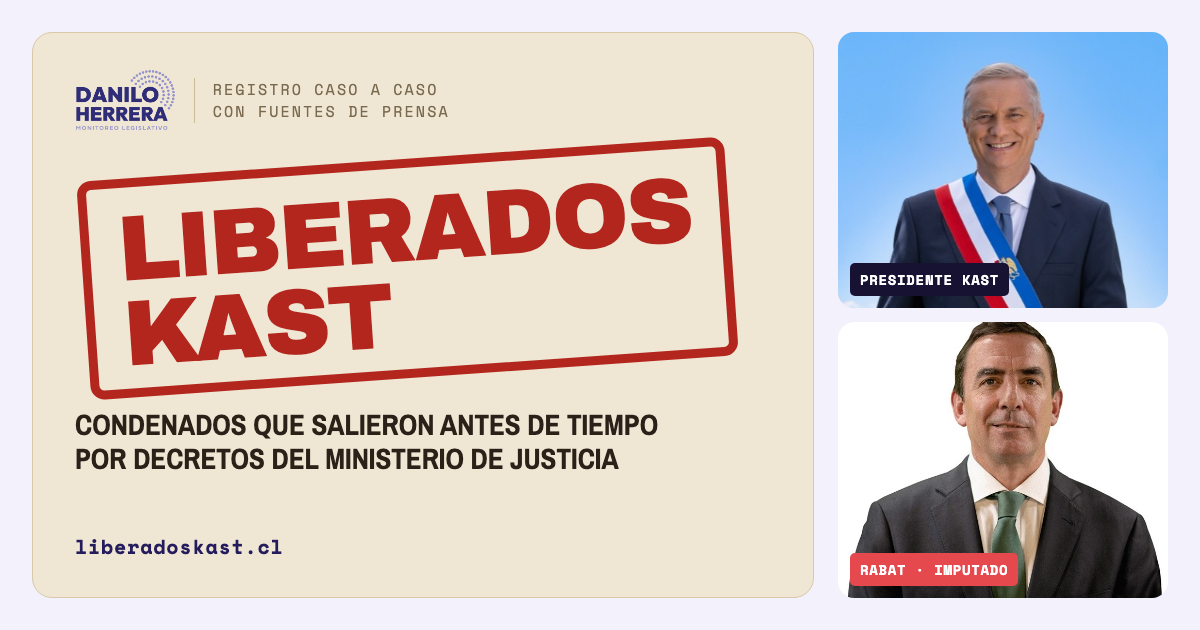
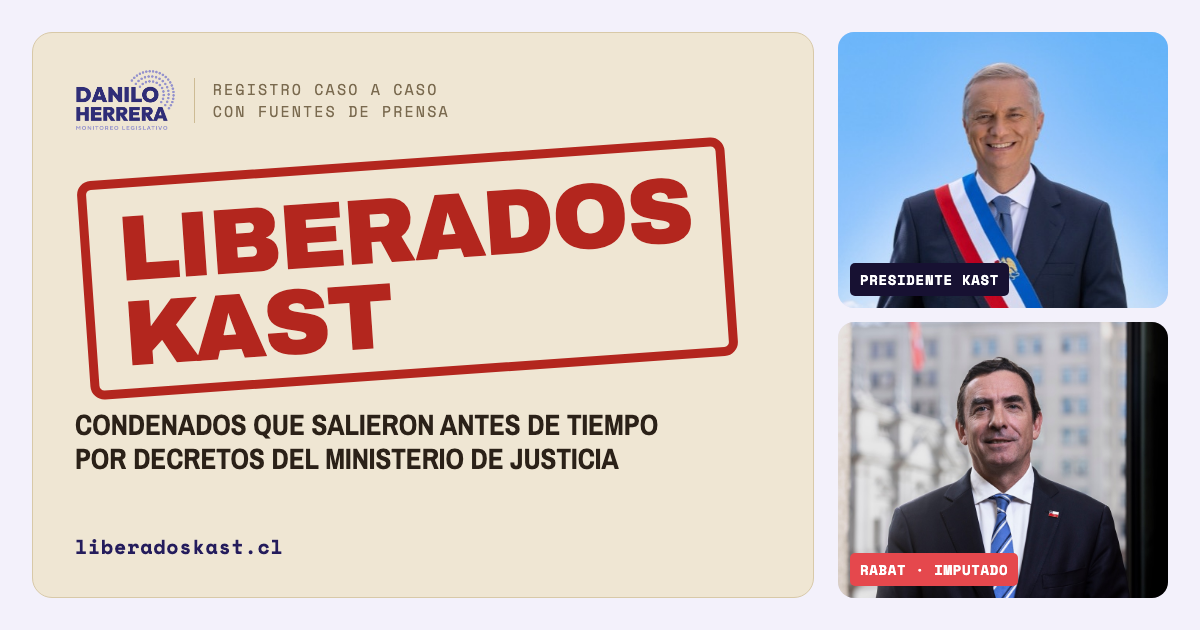
Nueva foto de Rabat, secciones plegadas, verificación con BioBío e Interferencia y 7 casos nuevos

Changed region(s): [[0.6783, 0.5127, 0.9867, 0.9651]]

diff --git a/index.html b/index.html
@@ -13,13 +13,13 @@
 <meta property="og:url" content="https://liberadoskast.cl/">
 <meta property="og:title" content="Liberados Kast · Rebajas de condena del Ministerio de Justicia">
 <meta property="og:description" content="Los condenados que salieron antes de tiempo por decretos firmados por Rabat, Silva y Mira. Caso a caso, con fuente de prensa.">
-<meta property="og:image" content="https://liberadoskast.cl/og-image.png?v=2">
+<meta property="og:image" content="https://liberadoskast.cl/og-image.png?v=3">
 <meta property="og:image:width" content="1200">
 <meta property="og:image:height" content="630">
 <meta name="twitter:card" content="summary_large_image">
 <meta name="twitter:title" content="Liberados Kast · Rebajas de condena del Ministerio de Justicia">
 <meta name="twitter:description" content="Los condenados que salieron antes de tiempo por decretos firmados por Rabat, Silva y Mira. Caso a caso, con fuente de prensa.">
-<meta name="twitter:image" content="https://liberadoskast.cl/og-image.png?v=2">
+<meta name="twitter:image" content="https://liberadoskast.cl/og-image.png?v=3">
 <link rel="preconnect" href="https://fonts.googleapis.com">
 <link rel="preconnect" href="https://fonts.gstatic.com" crossorigin>
 <link href="https://fonts.googleapis.com/css2?family=Archivo:wght@400;500;600;700;800;900&family=Archivo+Narrow:wght@600;700&family=Space+Mono:wght@400;700&display=swap" rel="stylesheet">
@@ -136,6 +136,7 @@
   .st-libre{background:var(--alert-bg);color:var(--alert-ink)}
   .st-prision{background:#dfeee3;color:#22613a}
   .st-sinconf{background:#ecebf3;color:#5d587c}
+  .st-volvio{background:#f3e6d6;color:#7a4a12}
   .case.ghost{border-style:dashed;border-left-style:solid;background:transparent;justify-content:flex-start}
   .case.ghost .who{font-size:30px;font-weight:900;color:var(--indigo)}
   .blk{margin-top:30px}
@@ -259,7 +260,7 @@
         </div>
       </article>
       <article class="person">
-        <div class="ph"><img src="img/rabat.jpg" alt="Retrato oficial del ministro de Justicia Fernando Rabat" loading="lazy" style="object-position:50% 25%"><span class="stamp">Imputado</span></div>
+        <div class="ph"><img src="img/rabat.jpg" alt="Retrato oficial del ministro de Justicia Fernando Rabat" loading="lazy" style="object-position:50% 22%"><span class="stamp">Imputado</span></div>
         <div class="bd">
           <div class="role">Ministro de Justicia y DD.HH.</div>
           <h3>Fernando Rabat</h3>
@@ -279,7 +280,7 @@
         </div>
       </article>
     </div>
-    <p class="credit">Fotos: Gobierno de Chile, licencia CC BY 3.0, vía Wikimedia Commons (<a href="https://commons.wikimedia.org/wiki/File:Retrato_presidencial_de_Jos%C3%A9_Antonio_Kast_Rist_(2026).jpg" target="_blank" rel="noopener">Kast</a>, <a href="https://commons.wikimedia.org/wiki/File:Fernando_Rabat_Celis_Justicia_2026.jpg" target="_blank" rel="noopener">Rabat</a>, <a href="https://commons.wikimedia.org/wiki/File:Pablo_Mira,_Fernando_Rabat_y_Luis_Silva.jpg" target="_blank" rel="noopener">Mira, Rabat y Silva</a>).</p>
+    <p class="credit">Fotos: Gobierno de Chile, licencia CC BY 3.0, vía Wikimedia Commons (<a href="https://commons.wikimedia.org/wiki/File:Retrato_presidencial_de_Jos%C3%A9_Antonio_Kast_Rist_(2026).jpg" target="_blank" rel="noopener">Kast</a>; <a href="https://commons.wikimedia.org/wiki/File:Pablo_Mira,_Fernando_Rabat_y_Luis_Silva.jpg" target="_blank" rel="noopener">Mira, Rabat y Silva</a>). Retrato de Rabat: <a href="https://www.minjusticia.gob.cl/media/2026/11/Fernando_Rabat_2026-web.png" target="_blank" rel="noopener">Ministerio de Justicia</a>.</p>
   </div>
 </section>
 
@@ -321,11 +322,11 @@
       <h2>Cómo se arma este registro</h2>
     </div>
     <div class="methodbox">
-      <div><h4>Fuentes</h4><p>Cada caso, hecho y cifra enlaza a la nota de prensa de la que sale. Citamos a BioBioChile, CIPER, CNN Chile, Ex-Ante, Interferencia, La Tercera, Reportajes T13 y The Clinic. Las fotos son del Gobierno de Chile, vía Wikimedia Commons. El Gobierno no ha publicado los decretos completos.</p></div>
+      <div><h4>Fuentes</h4><p>Cada caso, hecho y cifra enlaza a la nota de prensa de la que sale. Citamos a BioBioChile, CIPER, CNN Chile, Ex-Ante, Interferencia, La Tercera, Reportajes T13 y The Clinic. Las fotos son del Gobierno de Chile (Wikimedia Commons y Ministerio de Justicia). El Gobierno no ha publicado los decretos completos.</p></div>
       <div><h4>Víctimas primero</h4><p>En delitos sexuales contra menores no publicamos nombres de condenados, comunas ni parentesco con la víctima. Las iniciales se toman de la prensa que identificó cada caso.</p></div>
       <div><h4>Liberado no es lo mismo que rebajado</h4><p>Cada ficha marca «En libertad» solo si una fuente lo confirma. «Sigue preso» y «Sin confirmar» quedan fuera del contador principal.</p></div>
       <div><h4>Orden judicial o decisión propia</h4><p>Marcamos «por orden de la Corte Suprema» solo cuando la prensa informa un fallo que obligó a conceder la rebaja. Que un caso haya pasado por tribunales no basta: muchos fallos solo ordenaban revisar la solicitud. En los otros delitos no hay información sobre el origen.</p></div>
-      <div><h4>Lo que falta</h4><p>De las 56 rebajas por delitos sexuales contra menores, la prensa ha identificado 43. Las 13 restantes aparecerán a medida que se conozcan.</p></div>
+      <div><h4>Lo que falta</h4><p>De las 56 rebajas por delitos sexuales contra menores, la prensa ha identificado <span id="nIdent">44</span>. Las <span id="nFalta">12</span> restantes aparecerán a medida que se conozcan.</p></div>
     </div>
   </div>
 </section>
@@ -347,7 +348,10 @@ const F = {
   bb43:{m:"BioBioChile", u:"https://www.biobiochile.cl/especial/bbcl-investiga/noticias/reportajes/2026/11/03/suben-los-pederastas-identificados10-de-43-fueron-beneficiados-por-orden-de-la-corte-suprema.shtml"},
   bbOtros:{m:"BioBioChile", u:"https://www.biobiochile.cl/especial/bbcl-investiga/noticias/articulos/2026/10/28/narco-de-la-mafia-italiana-y-neonazi-homicida-estos-son-los-otros-favorecidos-por-rabat-y-silva.shtml"},
   bbTDA:{m:"BioBioChile", u:"https://www.biobiochile.cl/noticias/nacional/chile/2026/10/27/nuevo-flanco-para-rabat-decretos-dejaron-libres-a-extorsionadores-que-decian-ser-del-tren-de-aragua.shtml"},
-  cnnPP:{m:"CNN Chile", u:"https://www.cnnchile.com/pais/rebajas-condenas-punta-peuco-ministro-justicia-fernando-rabat-secuestro-tormentos/"},
+  bbPP:{m:"BioBioChile", u:"https://www.biobiochile.cl/noticias/nacional/chile/2026/10/26/los-otros-dos-nombres-las-rebajas-condena-que-firmo-rabat-a-condenados-por-secuestro-y-torturas-en-dictadura.shtml"},
+  iPA:{m:"Interferencia", u:"https://interferencia.cl/articulos/el-condenado-de-punta-arenas-que-salio-libre-con-una-rebaja-de-pena-y-llevo-la-polemica-de"},
+  bbCNI:{m:"BioBioChile", u:"https://www.biobiochile.cl/noticias/nacional/chile/2026/10/22/cesar-acuna-luengo-el-decreto-de-justicia-que-rebajo-pena-a-exagente-cni-condenado-por-ultimos-secuestros-de-la-dictadura.shtml"},
+  iReinc:{m:"Interferencia", u:"https://interferencia.cl/articulos/condenado-expulsion-por-trafico-que-recibio-rebaja-de-condena-de-rabat-fue-detenido-otra"},
   uchDrogas:{m:"Interferencia", u:"https://interferencia.cl/articulos/hasta-con-una-tonelada-de-droga-los-decretos-de-rabat-que-rebajaron-condenas-narcos"}
 };
 
@@ -363,7 +367,7 @@ const D = [
   // BioBioChile, 26 oct 2026 (33 casos)
   S("P.G.H.","Abuso sexual de menor de 14 años",11,"Silva","bb33"),
   S("J.S.O.","Abuso sexual impropio reiterado",9,"Silva","bb33"),
-  S("H.O.A.","Violación de menor de 14 años",18,"Silva","bb33"),
+  S("H.O.A.","Violación de menor de 14 años",18,"Silva","bb33",{sub:true,fd:"24 jun"}),
   S("P.A.V.","Abuso sexual de menor de 14 años",15,"Rabat","bb33"),
   S("P.R.O.","Abuso sexual de menor de 14 años",10,"Rabat","bb33"),
   S("E.N.N.","Abuso sexual reiterado de menor de 14 años",17,"Rabat","bb33"),
@@ -383,7 +387,7 @@ const D = [
   S("J.S.A.","Abuso sexual de menor de 14 años",3,"Silva","bb33"),
   S("J.C.P.","Abuso sexual reiterado de menor de 15 años",10,"Silva","bb33"),
   S("L.V.J.","Violación reiterada",6,"Silva","bb33"),
-  S("W.G.M.","Abuso sexual",21,"Rabat","bb33",{g:"Riesgo de reincidencia medio en delitos sexuales y alto en delitos comunes."}),
+  S("W.G.M.","Abuso sexual",21,"Rabat","bb33",{fd:"31 jul",g:"Riesgo de reincidencia medio en delitos sexuales y alto en delitos comunes."}),
   S("D.A.C.","Abuso sexual impropio y violación de menor de 14 años",31,"Rabat","bb33",{g:"Ya había recibido una rebaja anterior de 25 meses."}),
   S("B.C.S.","Abuso sexual de menor de 14 años",10,"Rabat","bb33"),
   S("G.L.S.","Violación y abuso sexual de menor",36,"Rabat","bb33",{g:"La mayor rebaja identificada."}),
@@ -405,6 +409,8 @@ const D = [
   S("S.B.R.","Violación de menor de 14 años",11,"Rabat","bb43"),
   S("M.M.M.","Violación y producción de pornografía infantil",23,"Rabat","bb43"),
   S("J.M.L.","Violación de menor de 14 años",null,"","bb43"),
+  // Interferencia, 4 nov 2026 (identificado por La Prensa Austral)
+  S("J.S.O.","Violación y abuso sexual reiterado de una niña",18,"Silva","iPA",{sub:true,fd:"8 sep",g:"Salió al día siguiente. Gendarmería lo había evaluado con riesgo alto de reincidencia y le negaron la libertad condicional cuatro años seguidos."}),
 
   // Otros delitos (nombres ya publicados por la prensa)
   {tipo:"drogas",q:"Massimiliano Beltrami",delito:"Narcotráfico: más de 100 kilos de cocaína ocultos en motos de agua (Operación Tirreno, 2018)",m:9.5,mt:"9 meses y 16 días",firma:"Rabat",fd:"15 may",est:"sinconf",g:"Vinculado a la mafia italiana. Debía ser extraditado a Italia.",f:"bbOtros"},
@@ -416,20 +422,27 @@ const D = [
   {tipo:"robo",q:"Franyorkin Aramburu Hernández",delito:"Robo con intimidación y porte de armas; extorsionaba a migrantes diciendo ser del Tren de Aragua",m:9,firma:"Rabat",fd:"6 jul",est:"prision",g:"La Comisión de Libertad Condicional le había negado la salida en 2025. Su salida quedó para el 8 de marzo de 2027.",f:"bbTDA"},
   {tipo:"robo",q:"Winder Marott Morán",delito:"Robo con intimidación y porte de armas; extorsionaba a migrantes diciendo ser del Tren de Aragua",m:3,firma:"Rabat",fd:"4 sep",est:"libre",g:"Salió el 9 de septiembre. No fue expulsado.",f:"bbTDA"},
   {tipo:"robo",q:"Jhonder Ollarves Berbesi",sub:true,delito:"Robo con intimidación y porte de armas; extorsionaba a migrantes diciendo ser del Tren de Aragua",m:3,firma:"Silva",fd:"7 sep",est:"libre",g:"Salió el 10 de septiembre. No fue expulsado.",f:"bbTDA"},
-  {tipo:"ddhh",q:"Miguel Arias Navarrete",delito:"Excarabinero, secuestro calificado de Justo Flores Martínez (1973)",m:9,firma:"Rabat",est:"libre",g:"Cumplía en Punta Peuco. Su salida se adelantó del 14 de diciembre al 14 de marzo.",f:"cnnPP"},
-  {tipo:"ddhh",q:"Manuel Cabezas Pérez",delito:"Exintegrante de la FACh, torturas reiteradas a dos detenidos en la Base Aérea El Bosque",m:8,firma:"Rabat",est:"libre",g:"Cumplía en Punta Peuco. Su salida se adelantó del 28 de noviembre al 28 de marzo.",f:"cnnPP"},
+  {tipo:"ddhh",q:"Miguel Arias Navarrete",delito:"Excarabinero, secuestro calificado de Justo Flores Martínez (1973)",m:9,firma:"Rabat",est:"libre",g:"Cumplía en Punta Peuco. Su salida se adelantó del 14 de diciembre al 14 de marzo.",f:"bbPP"},
+  {tipo:"ddhh",q:"Manuel Cabezas Pérez",delito:"Exintegrante de la FACh, torturas reiteradas a dos detenidos en la Base Aérea El Bosque",m:8,firma:"Rabat",est:"libre",g:"Cumplía en Punta Peuco. Su salida se adelantó del 28 de noviembre al 28 de marzo.",f:"bbPP"},
   {tipo:"drogas",q:"Jhoel Ramos Antesana",delito:"Narcotráfico: transporte de 867 kilos de marihuana, entre otras drogas (2021)",m:3,firma:"",fd:"12 may",est:"sinconf",g:"El decreto fijó su salida para dos días después.",f:"uchDrogas"},
   {tipo:"drogas",q:"Fredy Orlas Heredia",sub:true,delito:"Narcotráfico: 52 kilos de pasta base (2021)",m:6,firma:"Silva",fd:"1 jun",est:"sinconf",g:"Gendarmería evaluó alto su riesgo de reincidencia y la Comisión de Libertad Condicional le negó la salida por unanimidad.",f:"uchDrogas"},
-  {tipo:"drogas",q:"Wilber Tenajas Orellana",sub:true,delito:"Narcotráfico: 291,5 kilos de marihuana, junto a otros detenidos",m:7,firma:"Silva",est:"sinconf",f:"uchDrogas"},
+  {tipo:"drogas",q:"Wilber Tenajas Orellana",sub:true,delito:"Narcotráfico: 291,5 kilos de marihuana, junto a otros detenidos",m:7,firma:"Silva",fd:"7 sep",est:"sinconf",g:"El decreto adelantó el término de su condena del 8 de abril de 2027 al 8 de septiembre de 2026.",f:"uchDrogas"},
   {tipo:"drogas",q:"Estela Cocha Tito",sub:true,delito:"Narcotráfico: 25 kilos de marihuana, junto a otra detenida",m:11,firma:"Silva",fd:"13 jul",est:"sinconf",f:"uchDrogas"},
-  {tipo:"drogas",q:"José Luis Liscano Bermúdez",delito:"Narcotráfico: 32,7 kilos de ketamina (2021)",m:null,firma:"Rabat",est:"libre",f:"uchDrogas"},
+  {tipo:"drogas",q:"José Luis Liscano Bermúdez",delito:"Narcotráfico: 32,7 kilos de ketamina (2021)",m:null,firma:"Rabat",fd:"10 abr",est:"libre",f:"uchDrogas"},
   {tipo:"drogas",q:"Víctor Mora Araya",delito:"Narcotráfico: 32,7 kilos de ketamina (2021)",m:null,firma:"Rabat",est:"libre",f:"uchDrogas"},
   {tipo:"drogas",q:"Cristhian Oblitas Uscamayta",delito:"Narcotráfico: 103,4 kilos de marihuana",m:null,firma:"",est:"sinconf",f:"uchDrogas"},
-  {tipo:"drogas",q:"Javier Pérez Mamani",delito:"Narcotráfico: 59,9 kilos de marihuana y uno de cocaína",m:null,firma:"",est:"sinconf",f:"uchDrogas"}
+  {tipo:"drogas",q:"Javier Pérez Mamani",delito:"Narcotráfico: 59,9 kilos de marihuana y uno de cocaína",m:null,firma:"",est:"sinconf",f:"uchDrogas"},
+  {tipo:"drogas",q:"Estefanía Cante Gonzales",delito:"Narcotráfico: 25 kilos de marihuana, junto a otra detenida",m:null,firma:"",est:"sinconf",f:"uchDrogas"},
+  {tipo:"drogas",q:"Daniela Velásquez Jiménez",delito:"Narcotráfico: detenida en 2022 en un patrullaje de Carabineros y el Ejército en la frontera norte",m:11,firma:"",est:"sinconf",f:"uchDrogas"},
+  {tipo:"drogas",q:"Vladimir Medina Mamani",delito:"Narcotráfico: 5,1 kilos de cocaína en una mochila",m:null,firma:"",est:"sinconf",g:"Se le había negado la libertad condicional en abril de 2025.",f:"uchDrogas"},
+  {tipo:"drogas",q:"David Cano Arias",delito:"Narcotráfico: 4,3 kilos de cocaína en el complejo fronterizo de Colchane",m:null,firma:"",est:"sinconf",f:"uchDrogas"},
+  {tipo:"drogas",q:"Edixon Escobar García",delito:"Narcotráfico: 25,5 kilos de cannabis y dos de cocaína, al entrar por un paso no habilitado (2020)",m:6,firma:"Rabat",fd:"23 abr",est:"volvio",g:"Se le había negado la libertad condicional. El decreto fijó su salida para el día siguiente. El 30 de octubre quedó en prisión preventiva, otra vez por tráfico.",f:"iReinc"},
+  {tipo:"ddhh",q:"César Acuña Luengo",sub:true,delito:"Exagente de la CNI, secuestro calificado de cinco detenidos desaparecidos (1987)",m:19,firma:"Mira",fd:"20 may",est:"sinconf",g:"Cumplía en Colina I. El decreto movió el término de su condena del 2 de mayo de 2027 al 2 de octubre de 2025, una fecha ya pasada.",f:"bbCNI"}
 ];
 const SIN_IDENTIFICAR = 56 - D.filter(d=>d.tipo==="sexual").length;
 // Origen de la rebaja (solo delitos sexuales identificados). Fuente: BioBioChile, 3 nov 2026:
 // los 10 del 3 nov fueron por orden de la Corte Suprema; en los 33 del 26 oct el ministerio actuó «por decisión propia».
+// J.S.O. (Interferencia, 4 nov): la Seremi envió la solicitud y el ministerio la concedió; no hubo fallo que lo ordenara.
 D.forEach(d=>{ if(d.tipo==="sexual") d.ori = d.f==="bb43" ? "suprema" : "ministerio"; });
 const ORI = {ministerio:"Decisión del Ministerio, sin orden de conceder", suprema:"Por orden de la Corte Suprema"};
 
@@ -438,27 +451,29 @@ const ORI = {ministerio:"Decisión del Ministerio, sin orden de conceder", supre
 const T = [
   {d:"Febrero", h:"Traspaso: el criterio era rechazar", m:"En la reunión de traspaso, el exministro Jaime Gajardo le explica a Rabat que el ministerio rechazaba las rebajas a condenados por delitos sexuales contra niños, salvo orden de un tribunal.", s:[["Reportajes T13","https://www.t13.cl/noticia/reportajes-teletrece/exclusivo-las-tres-advertencias-recibio-rabat-sobre-costos-beneficiar-abusadore-29-10-2026"]]},
   {d:"11 mar", h:"Rabat asume como ministro de Justicia", m:"Asume con el Gobierno de José Antonio Kast.", s:[]},
-  {d:"Mar – may", h:"Al principio, el ministerio sí rechaza", m:"Justicia niega rebajas a condenados por abusos contra menores de 14 años y aplica la ley de 2022 que las prohíbe. Rabat recibe al menos tres advertencias de su equipo sobre el costo de cambiar ese criterio.", s:[["Interferencia","https://interferencia.cl/articulos/rabat-aprobo-rebajas-de-condena-que-sus-oficinas-regionales-habian-objetado-dos-de-ellas"],["Reportajes T13","https://www.t13.cl/noticia/reportajes-teletrece/exclusivo-las-tres-advertencias-recibio-rabat-sobre-costos-beneficiar-abusadore-29-10-2026"]]},
+  {d:"Mar – may", h:"Al principio, el ministerio sí rechaza", m:"Justicia niega al menos cinco rebajas a condenados por violar a menores antes de 2022, dos con la firma de Rabat. Rabat recibe al menos tres advertencias de su equipo sobre el costo de cambiar ese criterio.", s:[["Interferencia","https://interferencia.cl/articulos/los-decretos-que-desmienten-la-doctrina-rabat-nego-rebajas-de-condena-violadores-de-ninos"],["Reportajes T13","https://www.t13.cl/noticia/reportajes-teletrece/exclusivo-las-tres-advertencias-recibio-rabat-sobre-costos-beneficiar-abusadore-29-10-2026"]]},
   {d:"15 – 16 jun", k:true, h:"La Suprema le da la razón y el ministerio cambia de criterio", m:"El 15 de junio la Corte Suprema respalda un rechazo del ministerio. Al día siguiente, Justicia concede otra rebaja con el criterio contrario.", s:[["CNN Chile","https://www.cnnchile.com/pais/la-sentencia-que-tensiona-la-defensa-de-rabat-suprema-respaldo-a-justicia-al-negar-una-rebaja-de-condena-y-al-dia-siguiente-el-ministerio-concedio-otra-bajo-su-nuevo-criterio/"]]},
-  {d:"Jun – jul", h:"Firma pese a las alertas de la Seremi", m:"La Seremi de Justicia del Biobío advierte que la prohibición de 2022 podría aplicarse en dos casos. Rabat firma igual las rebajas de 6 y 30 meses (decretos 2075 y 2126).", s:[["Interferencia","https://interferencia.cl/articulos/rabat-aprobo-rebajas-de-condena-que-sus-oficinas-regionales-habian-objetado-dos-de-ellas"]]},
-  {d:"21 oct", k:true, h:"Se conocen las 56 rebajas", m:"Interferencia revela que entre marzo y septiembre el ministerio rebajó la condena a 56 sentenciados por delitos sexuales contra menores: 27 por abuso y 29 por violación.", s:[["Interferencia","https://interferencia.cl/articulos/rabat-culpa-la-suprema-por-56-decretos-que-rebajaron-condena-pederastas"]]},
-  {d:"22 oct", h:"También a dos reos de Punta Peuco", m:"Rabat confirma rebajas a un excarabinero condenado por secuestro y a un exintegrante de la FACh condenado por torturas.", s:[["CNN Chile","https://www.cnnchile.com/pais/rebajas-condenas-punta-peuco-ministro-justicia-fernando-rabat-secuestro-tormentos/"]]},
-  {d:"26 oct", k:true, h:"Kast reconoce el error, pero mantiene a Rabat", m:"«El Estado les falló», dice el Presidente sobre las víctimas. Suspende nuevas rebajas en estos casos y anuncia un proyecto de ley. El mismo día, BioBioChile identifica a 33 de los beneficiados, todos en libertad.", s:[["BioBioChile","https://www.biobiochile.cl/noticias/nacional/chile/2026/10/26/kast-asume-responsabilidad-por-rebajas-a-abusadores-pero-ratifica-a-rabat-el-estado-les-fallo.shtml"],["BioBioChile (lista)","https://biobiochile.cl/especial/bbcl-investiga/noticias/reportajes/2026/10/26/lista-33-pederastas-que-recibieron-rebajas-condena-kast.shtml"]]},
+  {d:"Julio", h:"Firma pese a las alertas de la Seremi", m:"La Seremi de Justicia del Biobío advierte que la prohibición de 2022 podría aplicarse en dos casos. Rabat firma igual las rebajas de 6 y 30 meses (decretos 2075 y 2126).", s:[["Interferencia","https://interferencia.cl/articulos/rabat-aprobo-rebajas-de-condena-que-sus-oficinas-regionales-habian-objetado-dos-de-ellas"]]},
+  {d:"21 oct", k:true, h:"Se conocen las 56 rebajas", m:"Interferencia revela que entre marzo y septiembre el ministerio rebajó la condena a 56 sentenciados por delitos sexuales contra menores: 27 por abuso y 29 por violación.", s:[["Interferencia","https://interferencia.cl/articulos/ministerio-de-justicia-y-ddhh-otorgo-56-rebajas-de-condena-delincuentes-sentenciados-por"]]},
+  {d:"22 oct", h:"También a condenados por crímenes de la dictadura", m:"Justicia informa tres rebajas a condenados por secuestro y torturas: dos reos de Punta Peuco y un exagente de la CNI que cumplía en Colina I.", s:[["BioBioChile","https://www.biobiochile.cl/noticias/nacional/chile/2026/10/22/cesar-acuna-luengo-el-decreto-de-justicia-que-rebajo-pena-a-exagente-cni-condenado-por-ultimos-secuestros-de-la-dictadura.shtml"],["BioBioChile (nombres)","https://www.biobiochile.cl/noticias/nacional/chile/2026/10/26/los-otros-dos-nombres-las-rebajas-condena-que-firmo-rabat-a-condenados-por-secuestro-y-torturas-en-dictadura.shtml"]]},
+  {d:"26 oct", k:true, h:"Kast reconoce el error, pero mantiene a Rabat", m:"«El Estado les falló», dice el Presidente sobre las víctimas. Respalda la suspensión de nuevas rebajas en estos casos y anuncia un proyecto de ley. El mismo día, BioBioChile identifica a 33 de los beneficiados, todos en libertad.", s:[["BioBioChile","https://www.biobiochile.cl/noticias/nacional/chile/2026/10/26/kast-asume-responsabilidad-por-rebajas-a-abusadores-pero-ratifica-a-rabat-el-estado-les-fallo.shtml"],["BioBioChile (lista)","https://biobiochile.cl/especial/bbcl-investiga/noticias/reportajes/2026/10/26/lista-33-pederastas-que-recibieron-rebajas-condena-kast.shtml"]]},
   {d:"27 oct", h:"Extorsionadores que decían ser del Tren de Aragua", m:"Se conocen rebajas a tres venezolanos condenados por robo con intimidación y porte de armas. Dos salieron en septiembre sin ser expulsados.", s:[["BioBioChile","https://www.biobiochile.cl/noticias/nacional/chile/2026/10/27/nuevo-flanco-para-rabat-decretos-dejaron-libres-a-extorsionadores-que-decian-ser-del-tren-de-aragua.shtml"]]},
   {d:"28 oct", k:true, h:"La Cámara pide la salida de Rabat, Silva y Mira", m:"La resolución se aprueba por 68 votos a favor, 42 en contra y 7 abstenciones. No es vinculante. Ese día también se conocen rebajas a homicidas, entre ellos un integrante de un grupo neonazi, y a un narco ligado a la mafia italiana.", s:[["BioBioChile","https://www.biobiochile.cl/noticias/nacional/chile/2026/10/28/con-abstenciones-oficialistas-camara-pide-a-kast-la-renuncia-de-rabat-y-subsecretarios-silva-y-mira.shtml"],["BioBioChile (otros casos)","https://www.biobiochile.cl/especial/bbcl-investiga/noticias/articulos/2026/10/28/narco-de-la-mafia-italiana-y-neonazi-homicida-estos-son-los-otros-favorecidos-por-rabat-y-silva.shtml"]]},
   {d:"30 oct", h:"Cae el subsecretario Silva", m:"Es removido tras publicar, sin avisar al ministro, un video sobre las rebajas.", s:[["La Tercera","https://www.latercera.com/politica/noticia/subsecretario-de-justicia-luis-silva-es-removido-de-su-cargo-en-medio-de-polemica-por-rebajas-de-condenas-y-tras-publicar-video-sin-informar/"]]},
   {d:"2 nov", k:true, h:"Rabat, imputado", m:"La Fiscalía confirma que el ministro figura como imputado por presunta prevaricación administrativa.", s:[["BioBioChile","https://www.biobiochile.cl/noticias/nacional/chile/2026/11/02/ministro-rabat-figura-como-imputado-en-causa-por-prevaricacion-administrativa-confirma-fiscalia.shtml"]]},
   {d:"3 nov", h:"Ya son 43 los identificados", m:"BioBioChile identifica a otros 10 beneficiados. Según el medio, en esos 10 casos hubo orden de la Corte Suprema.", s:[["BioBioChile","https://www.biobiochile.cl/especial/bbcl-investiga/noticias/reportajes/2026/11/03/suben-los-pederastas-identificados10-de-43-fueron-beneficiados-por-orden-de-la-corte-suprema.shtml"]]},
   {d:"4 nov", h:"Las cortes dicen que Rabat sí podía rechazar", m:"CIPER revisa fallos de las Cortes de Apelaciones de Santiago y Valparaíso: en la mayoría solo ordenaban al ministerio pronunciarse en un plazo, no conceder la rebaja.", s:[["CIPER","https://www.ciperchile.cl/2026/11/04/fallos-de-cortes-de-apelaciones-establecen-que-rabat-si-podia-rechazar-las-rebajas-de-condenas/"]]},
+  {d:"4 nov", h:"Un caso más, identificado en Magallanes", m:"Interferencia recoge el caso que publicó La Prensa Austral: un condenado por violar y abusar de una niña salió en septiembre tras una rebaja de 18 meses firmada por Silva. Con él, son 44 los identificados.", s:[["Interferencia","https://interferencia.cl/articulos/el-condenado-de-punta-arenas-que-salio-libre-con-una-rebaja-de-pena-y-llevo-la-polemica-de"]]},
   {d:"5 nov", h:"Al menos 115 extranjeros condenados por drogas", m:"Interferencia identifica rebajas a extranjeros condenados por narcotráfico, varios detenidos en la frontera norte. En ninguno el ministerio se opuso.", s:[["Interferencia","https://interferencia.cl/articulos/hasta-con-una-tonelada-de-droga-los-decretos-de-rabat-que-rebajaron-condenas-narcos"]]},
-  {d:"5 nov", h:"La acusación constitucional toma forma", m:"La oposición define tres capítulos: las rebajas a condenados por delitos sexuales contra menores, los beneficios a condenados por crímenes de lesa humanidad y eventuales faltas a la probidad. Aún no tiene fecha de presentación.", s:[["The Clinic","https://www.theclinic.cl/2026/11/05/la-ofensiva-contra-rabat-entra-en-su-recta-final-oposicion-define-capitulos-del-libelo-y-anuncia-presentacion-en-los-proximos-dias"]]}
+  {d:"5 nov", h:"La acusación constitucional toma forma", m:"La oposición define tres capítulos: las rebajas a condenados por delitos sexuales contra menores, los beneficios a condenados por crímenes de lesa humanidad y eventuales faltas a la probidad. Aún no tiene fecha de presentación.", s:[["The Clinic","https://www.theclinic.cl/2026/11/05/la-ofensiva-contra-rabat-entra-en-su-recta-final-oposicion-define-capitulos-del-libelo-y-anuncia-presentacion-en-los-proximos-dias"]]},
+  {d:"6 nov", h:"Un beneficiado vuelve a caer por tráfico", m:"Un condenado por narcotráfico al que Rabat rebajó seis meses en abril quedó otra vez en prisión preventiva por tráfico el 30 de octubre.", s:[["Interferencia","https://interferencia.cl/articulos/condenado-expulsion-por-trafico-que-recibio-rebaja-de-condena-de-rabat-fue-detenido-otra"]]}
 ];
 
 // ===== RENDER =====
 const TIPOS = {sexual:"Delito sexual contra menores", drogas:"Narcotráfico", homicidio:"Homicidio", femicidio:"Femicidio frustrado", robo:"Robo y armas", ddhh:"Violaciones a los DD.HH."};
 const FIRMANTES = {Rabat:["Fernando Rabat","ministro de Justicia"], Silva:["Luis Silva","subsecretario de Justicia"], Mira:["Pablo Mira","subsecretario de DD.HH."]};
 const ORDEN = ["sexual","ddhh","homicidio","femicidio","drogas","robo"]; // orden de las fichas
-const EST = {libre:"En libertad", prision:"Sigue preso", sinconf:"Sin confirmar"};
+const EST = {libre:"En libertad", prision:"Sigue preso", volvio:"Volvió a prisión", sinconf:"Sin confirmar"};
 const $ = id => document.getElementById(id);
 const fmt = n => n.toLocaleString("es-CL");
 document.querySelectorAll(".upd-short").forEach(e=>e.textContent=ACTUALIZADO.corto);
@@ -466,6 +481,7 @@ document.querySelectorAll(".upd-long").forEach(e=>e.textContent=ACTUALIZADO.larg
 
 const sex = D.filter(d=>d.tipo==="sexual");
 $("bigN").textContent = D.filter(d=>d.est==="libre").length;
+$("nIdent").textContent = 56 - SIN_IDENTIFICAR; $("nFalta").textContent = SIN_IDENTIFICAR;
 const mesesSex = Math.round(sex.reduce((a,d)=>a+(d.m||0),0));
 $("sMeses").textContent = fmt(mesesSex);
 $("sAnios").innerHTML = (mesesSex/12).toLocaleString("es-CL",{maximumFractionDigits:2}) + ' <span class="su">años</span>';
@@ -491,7 +507,7 @@ function card(d,i){
   const src = F[d.f];
   const mtxt = d.mt || (d.m!=null ? `${d.m} ${d.m===1?"mes":"meses"}` : null);
   const fr = FIRMANTES[d.firma];
-  const meta = (fr ? `Firma: ${esc(fr[0])},<br>${esc(fr[1])}${d.sub&&d.firma==="Silva"?", como ministro (s)":""}` : "Firma no informada") + (d.fd ? `<br>Decreto del ${esc(d.fd)}` : "");
+  const meta = (fr ? `Firma: ${esc(fr[0])},<br>${esc(fr[1])}${d.sub?", como ministro (s)":""}` : "Firma no informada") + (d.fd ? `<br>Decreto del ${esc(d.fd)}` : "");
   return `<article class="case c-${d.tipo}" id="caso-${D.indexOf(d)}">
     <div class="top"><span>${esc(TIPOS[d.tipo])}</span><span class="tag st-${d.est}">${EST[d.est]}</span></div>
     <div class="who ${d.tipo==="sexual"?"ini":""}">${esc(d.q)}</div>
@@ -511,14 +527,15 @@ function ghost(){
   </article>`;
 }
 
-// Secciones plegables: todas abiertas al entrar; se recuerda lo cerrado mientras se filtra
-const CERRADOS = new Set();
+// Secciones plegables: cerradas al entrar (se abren con un clic); con filtros o búsqueda se abren solas.
+// Lo que la persona abre o cierra a mano se respeta.
+const PLEGADO = {};
 document.addEventListener("click", e=>{
   const b = e.target.closest(".blk-h"); if(!b) return;
   const open = b.getAttribute("aria-expanded")!=="true";
   b.setAttribute("aria-expanded", open);
   b.nextElementSibling.hidden = !open;
-  open ? CERRADOS.delete(b.dataset.blk) : CERRADOS.add(b.dataset.blk);
+  PLEGADO[b.dataset.blk] = open;
 });
 function porque(){
   const sx = D.filter(d=>d.tipo==="sexual");
@@ -531,7 +548,7 @@ function porque(){
       <div><b>${SIN_IDENTIFICAR}</b><span>sin información: la prensa aún no los identifica</span></div>
     </div>
     <p>El ministro Rabat sostiene que 36 de los 56 casos «pasaron por tribunales». Pero esos fallos ordenaban revisar las solicitudes o pronunciarse en un plazo, no conceder la rebaja.</p>
-    <div class="s"><a href="${F.bb43.u}" target="_blank" rel="noopener">BioBioChile</a> · <a href="https://www.t13.cl/noticia/ex-ante/politica/la-nueva-defensa-rabat-ministro-justicia-sostiene-36-56-rebajas-condenas-pasaro-27-10-2026" target="_blank" rel="noopener">Ex-Ante</a> · <a href="https://www.ciperchile.cl/2026/11/04/fallos-de-cortes-de-apelaciones-establecen-que-rabat-si-podia-rechazar-las-rebajas-de-condenas/" target="_blank" rel="noopener">CIPER</a></div>
+    <div class="s"><a href="${F.bb43.u}" target="_blank" rel="noopener">BioBioChile</a> · <a href="https://www.t13.cl/noticia/ex-ante/politica/la-nueva-defensa-rabat-ministro-justicia-sostiene-36-56-rebajas-condenas-pasaro-27-10-2026" target="_blank" rel="noopener">Ex-Ante</a> · <a href="https://www.ciperchile.cl/2026/11/04/fallos-de-cortes-de-apelaciones-establecen-que-rabat-si-podia-rechazar-las-rebajas-de-condenas/" target="_blank" rel="noopener">CIPER</a> · <a href="${F.iPA.u}" target="_blank" rel="noopener">Interferencia</a></div>
   </div>`;
 }
 function render(){
@@ -551,7 +568,7 @@ function render(){
     const n = list.filter(d=>b.tipos.includes(d.tipo)).length;
     const ghostHere = b.tipos[0]==="sexual" && showGhost;
     if(!n && !ghostHere) return "";
-    const open = !CERRADOS.has(b.t);
+    const open = (b.t in PLEGADO) ? PLEGADO[b.t] : !!anyFilter;
     return `<div class="blk" style="--bc:${b.c}"><button class="blk-h" type="button" aria-expanded="${open}" data-blk="${b.t}"><h3>${b.t}</h3><span class="bn"><b>${n}</b> ${n===1?"caso":"casos"}${b.extra||""}</span><span class="chev" aria-hidden="true"><svg viewBox="0 0 24 24" fill="none" stroke="currentColor" stroke-width="2.6" stroke-linecap="round" stroke-linejoin="round"><path d="M6 9l6 6 6-6"/></svg></span></button>
       <div class="blk-body"${open?"":" hidden"}>${b.tipos[0]==="sexual"?porque():""}<div class="cases">${b.tipos.map(grp).join("")}${ghostHere?ghost():""}</div></div></div>`;
   }).join("");
